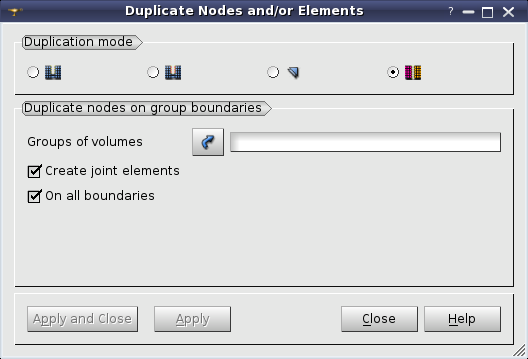
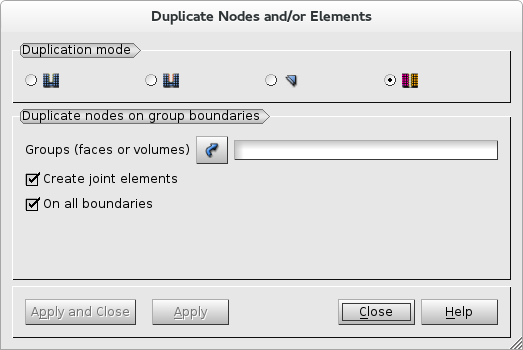
EDF 8523: Enable generation of 2D joint elements from GUI

Changed region(s): [[0.0, 0.0, 1.0, 0.8], [0.0, 0.8286, 1.0, 1.0]]

diff --git a/src/SMESHGUI/SMESH_msg_fr.ts b/src/SMESHGUI/SMESH_msg_fr.ts
@@ -6746,6 +6746,10 @@ Il y a trop peu de points dans le fichier </translation>
         <translation>Groupe des éléments dont les nœuds sont à remplacer</translation>
     </message>
     <message>
+        <source>GROUP_VOLUME_GROUPS</source>
+        <translation>Groupes (faces ou volumes)</translation>
+    </message>
+    <message>
         <source>CONSTRUCT_NEW_GROUP_NODES</source>
         <translation>Construire un groupe avec les nœuds nouvellement créés</translation>
     </message>

diff --git a/src/SMESHGUI/SMESH_msg_en.ts b/src/SMESHGUI/SMESH_msg_en.ts
@@ -6775,7 +6775,7 @@ It is impossible to read point coordinates from file</translation>
     </message>
     <message>
         <source>GROUP_VOLUME_GROUPS</source>
-        <translation>Groups of volumes</translation>
+        <translation>Groups (faces or volumes)</translation>
     </message>
     <message>
         <source>CONSTRUCT_NEW_GROUP_NODES</source>
